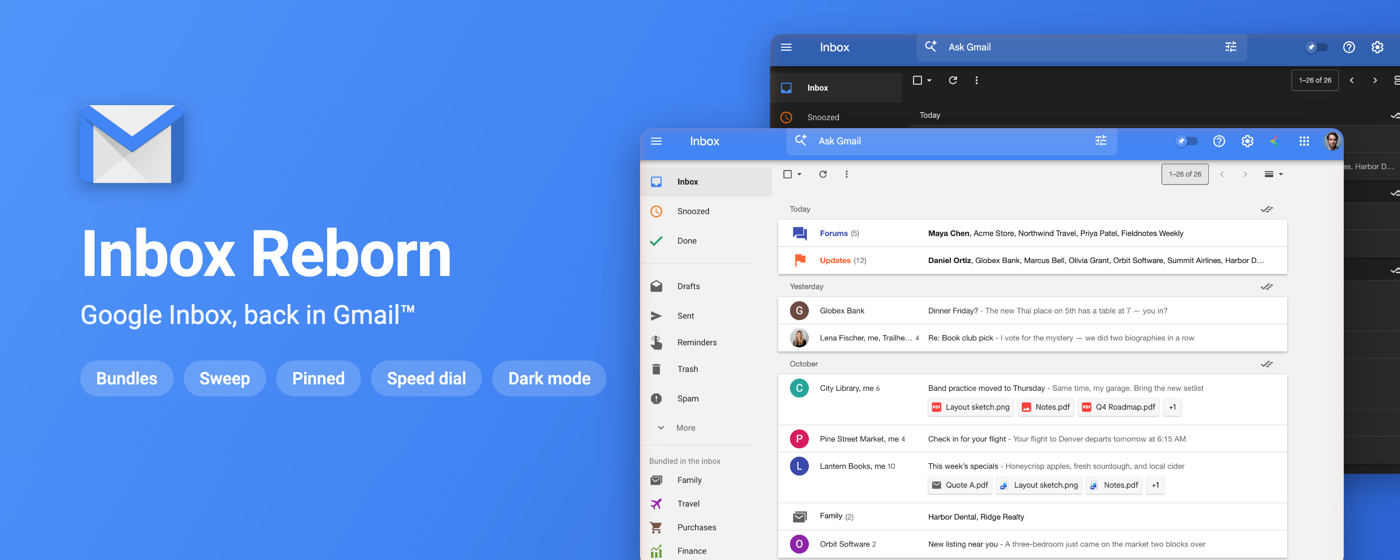
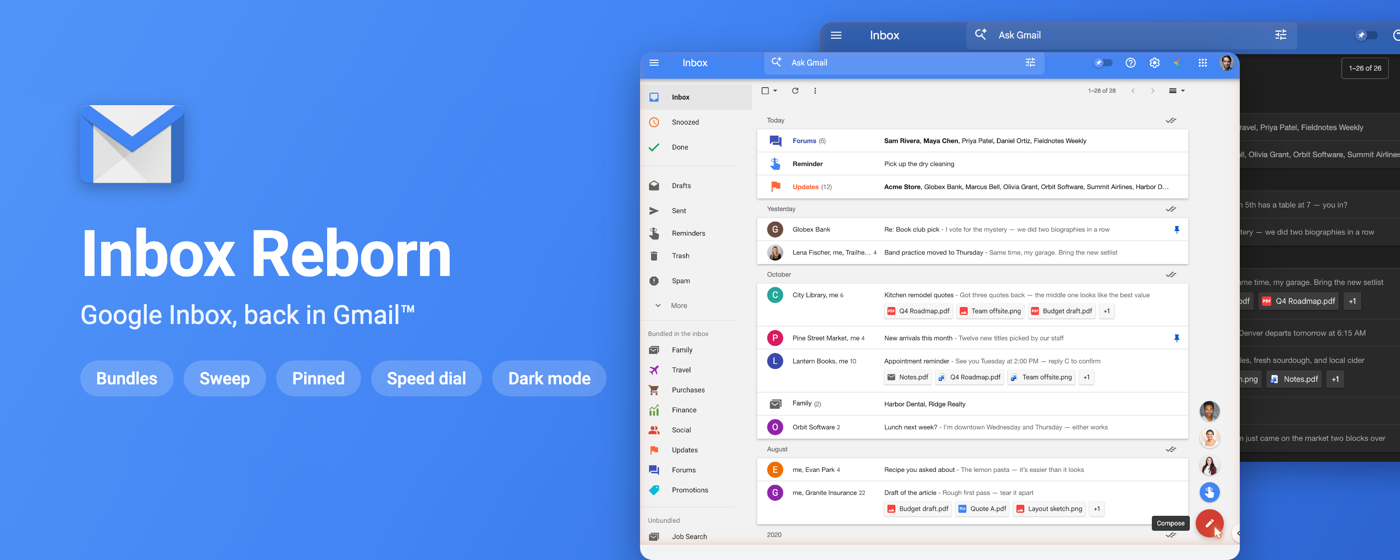
Marquee: the speed-dial capture on the front card, whole window in view
The front card showed the top-left of the inbox capture, which cut off the
compose button and the speed dial at the window's bottom right. It now
carries the speed-dial capture scaled to fit the card, so the fanned-out
dial and Compose are in view, and the image no longer repeats below it.

Changed region(s): [[0.43, 0.0304, 1.0, 1.0]]

diff --git a/screenshots/src/marquee.html b/screenshots/src/marquee.html
@@ -19,9 +19,9 @@
   .chip { padding: 8px 16px; border-radius: 20px; background: rgb(255 255 255 / 18%); font-size: 17px; font-weight: 500; }
 
   /* Product cards: dark behind, light in front, both running off the edges */
-  .card { position: absolute; border-radius: 12px; overflow: hidden; background-size: 718px auto; background-position: -5px -3px; }
-  .dark { left: 770px; top: 34px; width: 704px; height: 440px; background-image: url(inbox-dark.png); box-shadow: 0 10px 30px rgb(0 0 0 / 30%); }
-  .light { left: 640px; top: 128px; width: 704px; height: 440px; background-image: url(inbox-light.png); box-shadow: 0 14px 40px rgb(0 0 0 / 35%); }
+  .card { position: absolute; border-radius: 12px; overflow: hidden; background-size: 718px auto; background-position: -5px -3px; background-repeat: no-repeat; background-color: #f1f3f4; }
+  .dark { left: 820px; top: 22px; width: 704px; height: 440px; background-image: url(inbox-dark.png); box-shadow: 0 10px 30px rgb(0 0 0 / 30%); }
+  .light { left: 640px; top: 52px; width: 600px; height: 508px; background-image: url(speed-dial.png); background-size: 608px auto; background-position: -4px -3px; box-shadow: 0 14px 40px rgb(0 0 0 / 35%); }
 </style>
 </head>
 <body>
